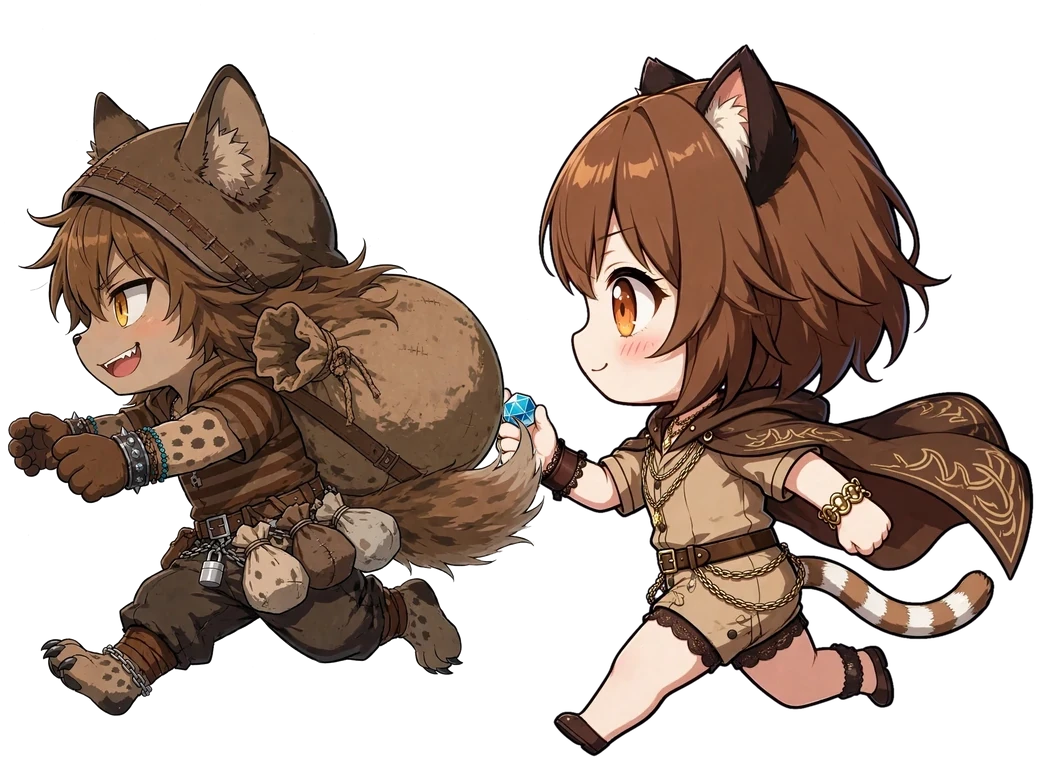
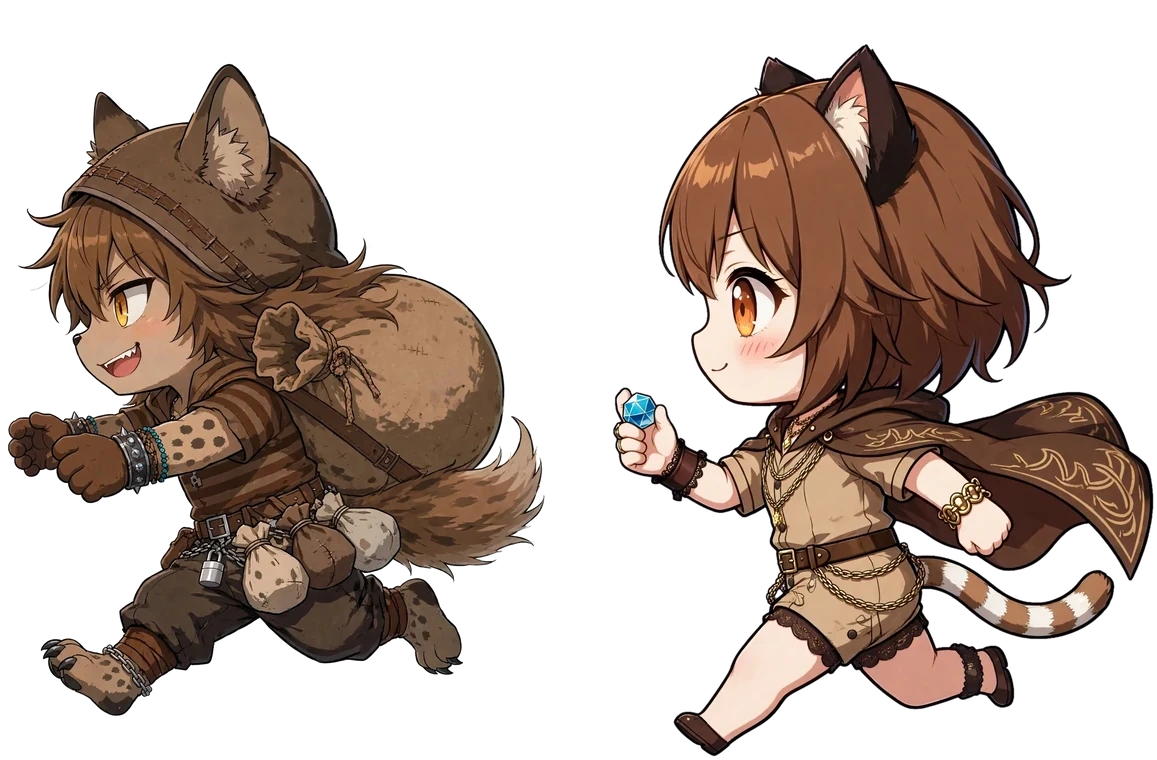
デッキ構築ページ: 走る2人の間隔を広げる（重なり-60px → 間60px）

diff --git a/game-deck.html b/game-deck.html
@@ -137,7 +137,7 @@
             <p class="section-body" style="margin-top:1.2rem; color:#999; font-size:0.85rem;">金星、水星、土星、冥王星――他にも多くの星の天牙が存在する。</p>
 
             <h3 class="section-lead" style="margin-top:2.5rem;">天牙ボーナスについて</h3>
-            <img class="sd-figure sd-figure--wide" src="assets/sd/tenga_chase.webp" alt="" width="1037" height="760" loading="lazy">
+            <img class="sd-figure sd-figure--wide" src="assets/sd/tenga_chase.webp" alt="" width="1157" height="760" loading="lazy">
             <p class="section-body" style="margin-bottom:0.5rem;">デッキに登録する勢力の種類が少ないほど、試合開始時に天牙ゲージの量が多い。</p>
             <div class="section-body rar-note" style="margin-top:0;">
                 <p>※無所属は種類に含まれない。</p>
